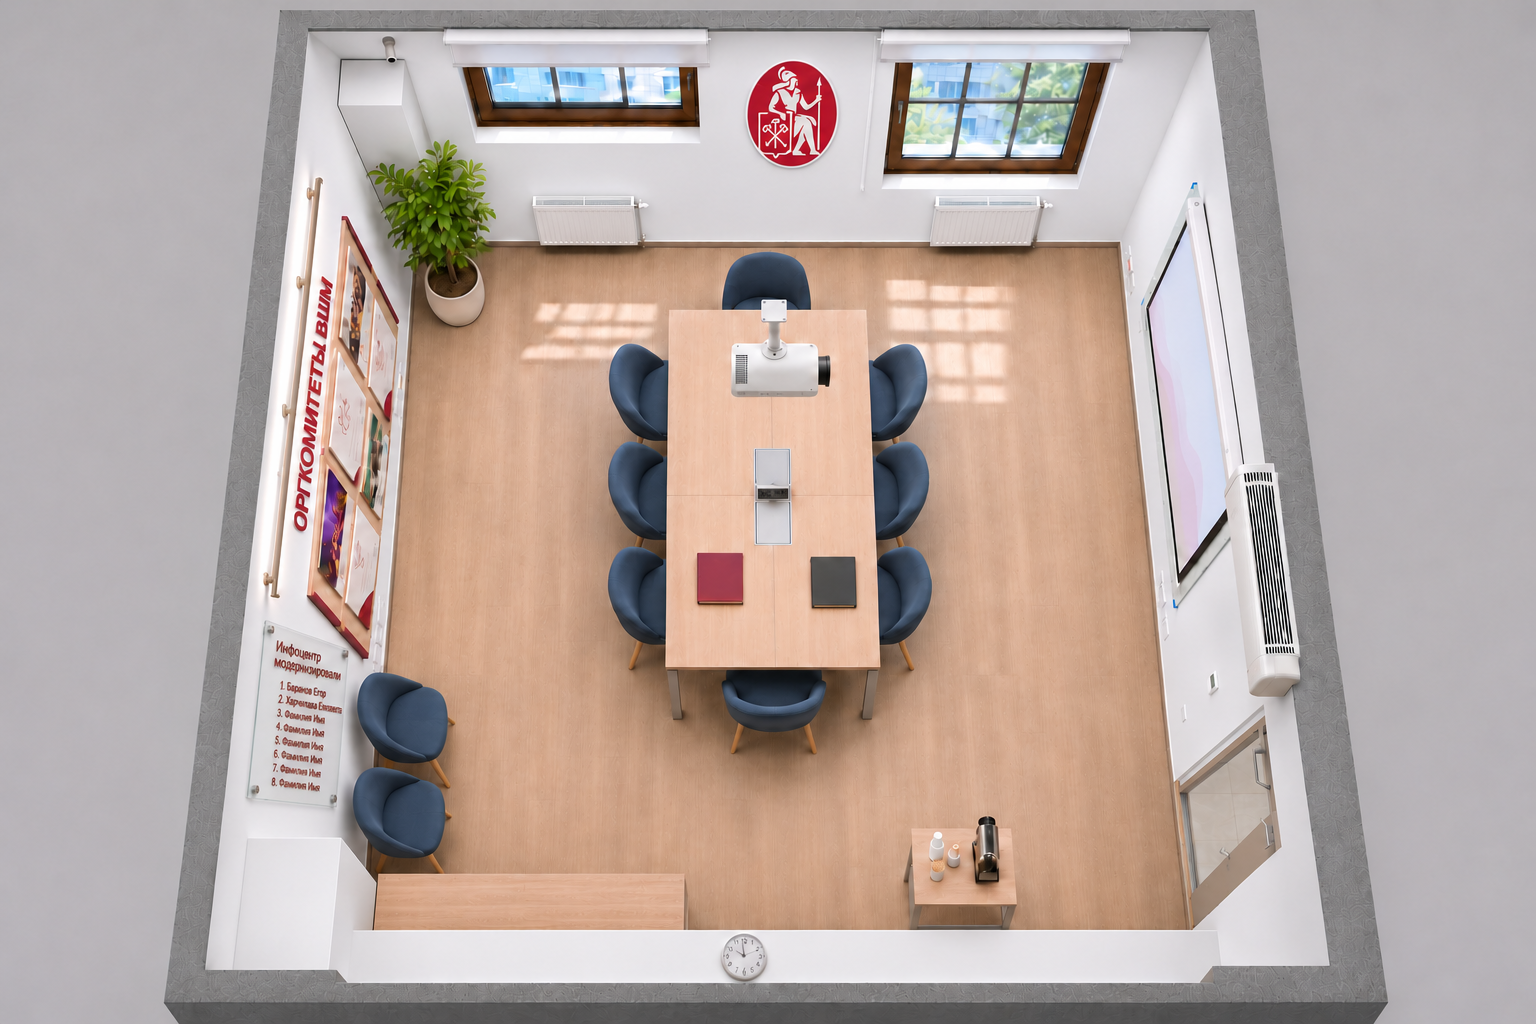
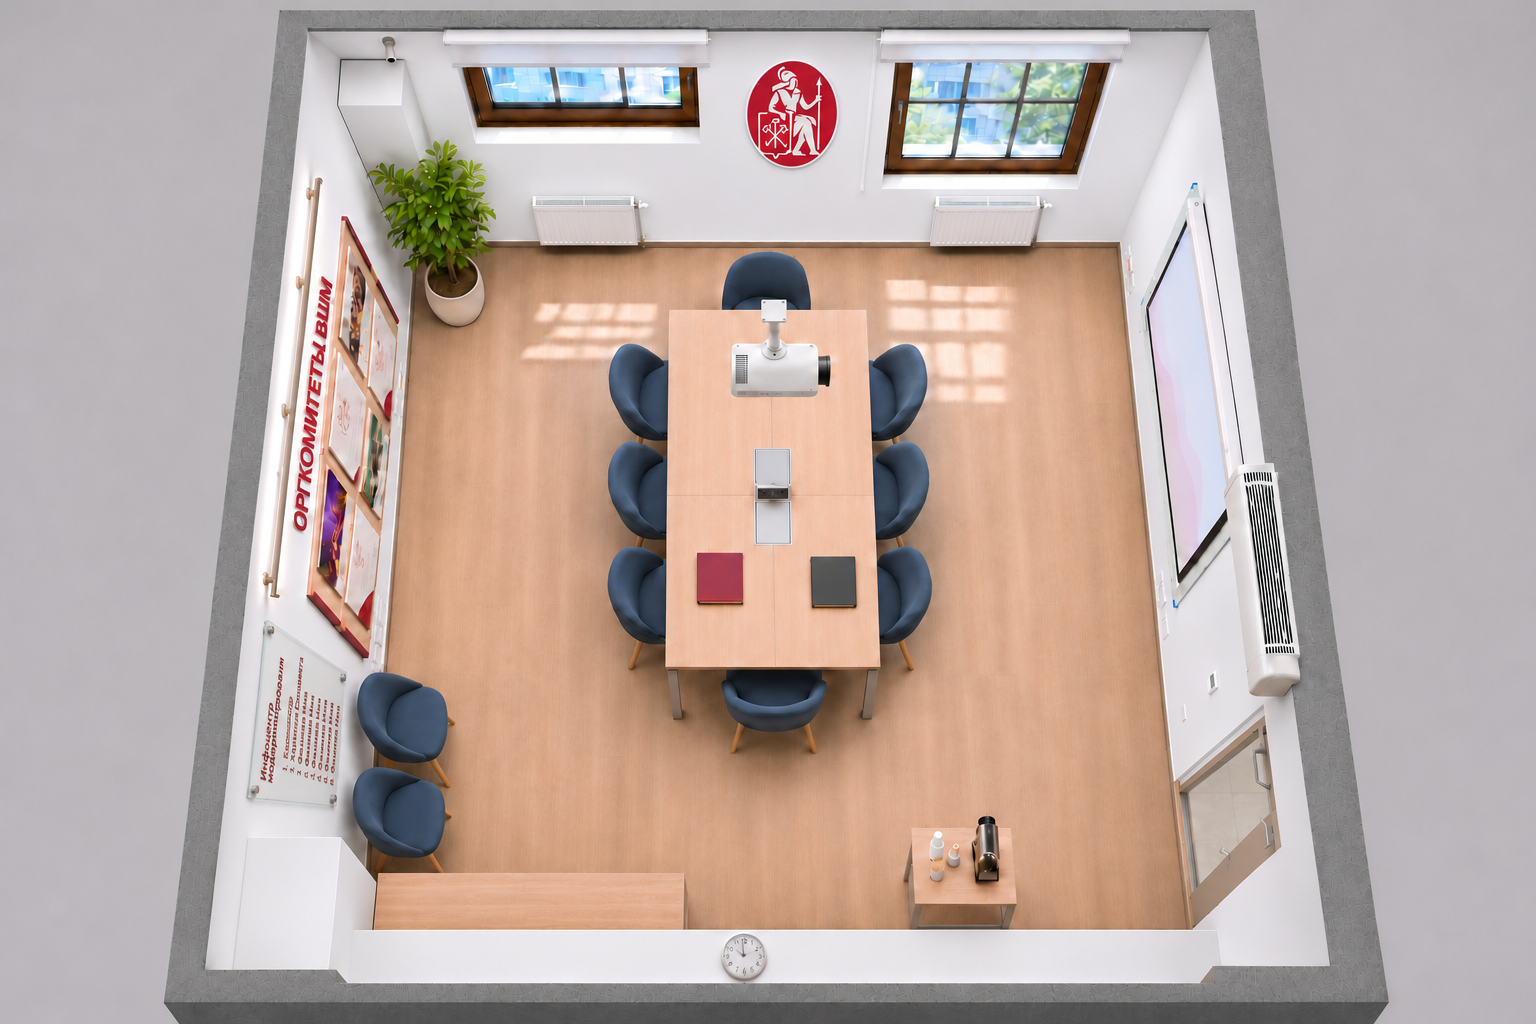
Correct plaque orientation in overhead view

diff --git a/index.html b/index.html
@@ -36,7 +36,7 @@
   <figure><a href="photos/02-south.png" target="_blank" rel="noopener"><img src="photos/02-south.png" width="1536" height="1024" loading="lazy" alt="Обратный вид: бордовая цитата слева от часов, подпись под линией"></a><figcaption><span>02</span>Обратный вид</figcaption></figure>
   <figure><a href="photos/03-west.png" target="_blank" rel="noopener"><img src="photos/03-west.png" width="1536" height="1024" loading="lazy" alt="Стена с оргстендом и стеклянной табличкой авторов модернизации"></a><figcaption><span>03</span>Стена оргкомитетов</figcaption></figure>
   <figure><a href="photos/04-east.png" target="_blank" rel="noopener"><img src="photos/04-east.png" width="1536" height="1024" loading="lazy" alt="Стена с проектором, выдвижным экраном и входом в комнату"></a><figcaption><span>04</span>Экран и вход</figcaption></figure>
-  <figure><a href="photos/05-top.png" target="_blank" rel="noopener"><img src="photos/05-top.png" width="1536" height="1024" loading="lazy" alt="Вид комнаты сверху: центральный стол и свободный проход к двери"></a><figcaption><span>05</span>Вид сверху</figcaption></figure>
+  <figure><a href="photos/05-top.png?v=wall-aligned" target="_blank" rel="noopener"><img src="photos/05-top.png?v=wall-aligned" width="1536" height="1024" loading="lazy" alt="Вид комнаты сверху: центральный стол и свободный проход к двери"></a><figcaption><span>05</span>Вид сверху</figcaption></figure>
  </div>
 </section>
 <section class="proposal-section" aria-labelledby="proposal-heading">
